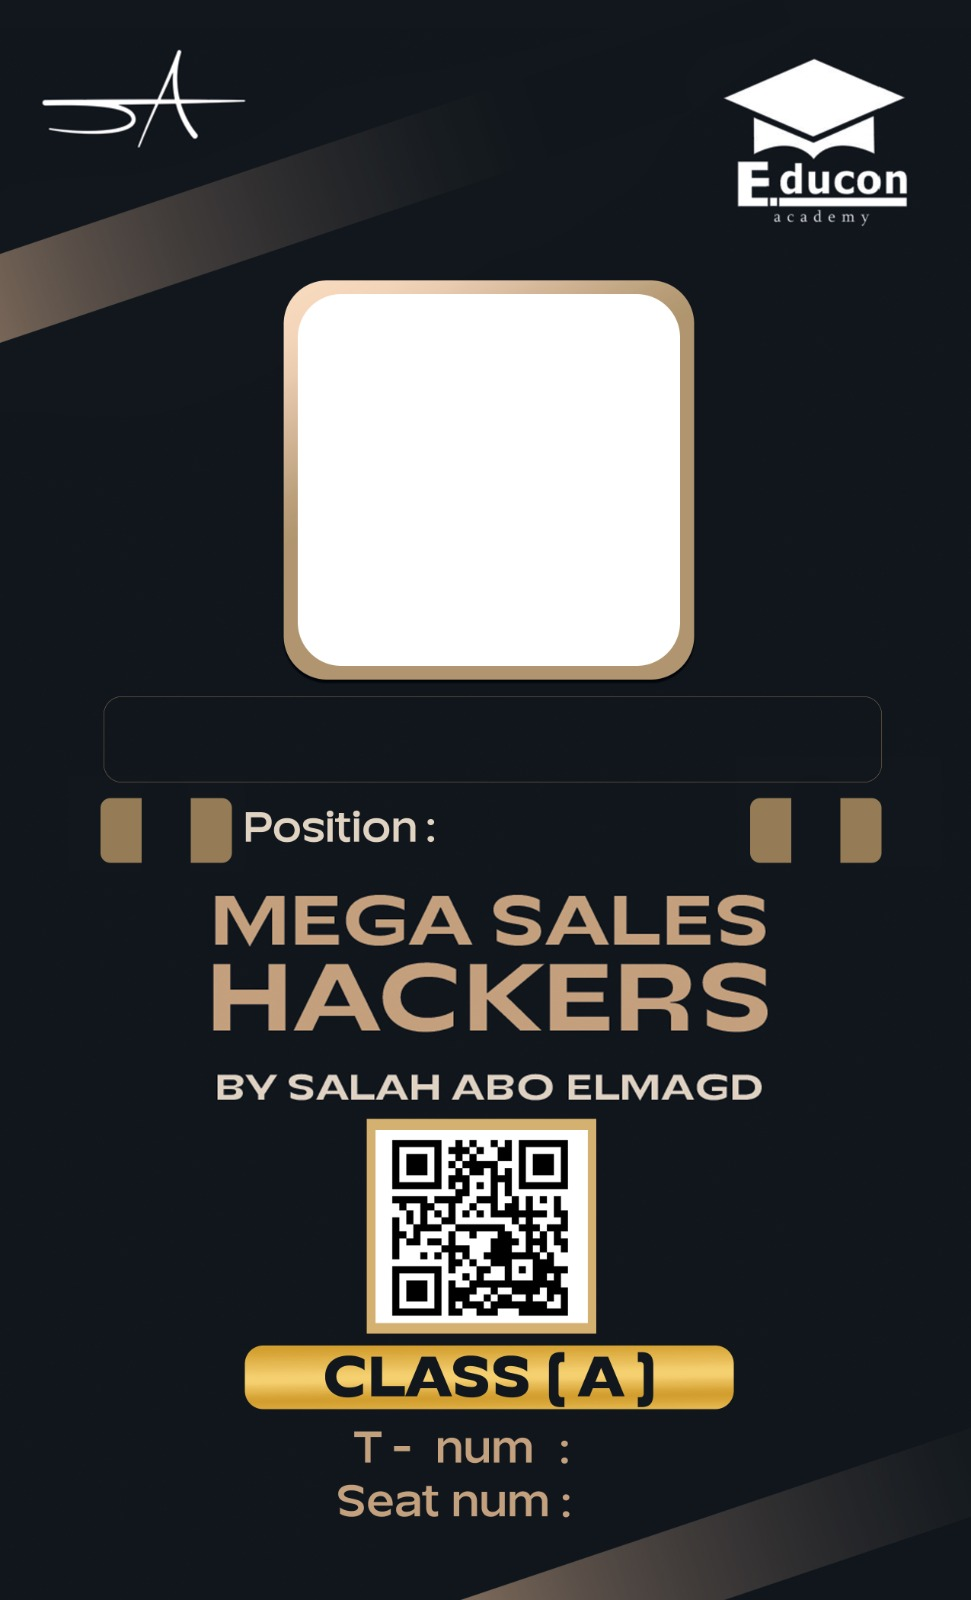
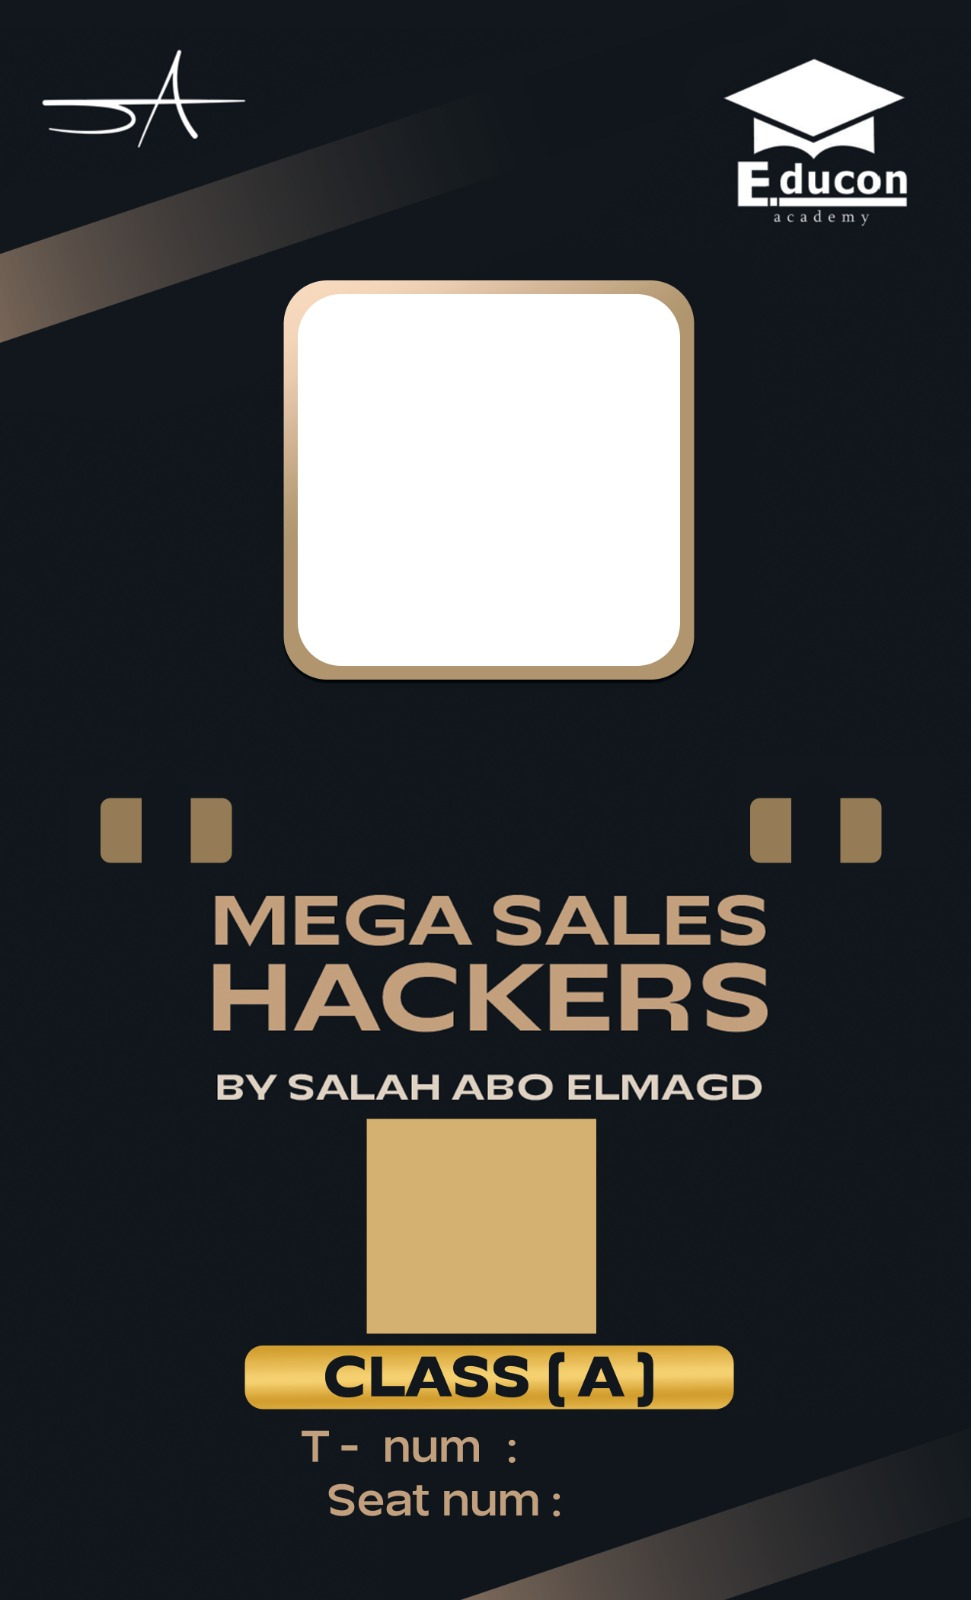
Replace ticket front templates and bust cache

diff --git a/src/pages/IDCard.tsx b/src/pages/IDCard.tsx
@@ -18,6 +18,7 @@ const IDCard: React.FC = () => {
   const previewMode = (searchParams.get('template') || 'ticket') as 'ticket' | 'back' | 'certificate';
   const TICKET_WIDTH_MM = 85;
   const TICKET_HEIGHT_MM = 140;
+  const TEMPLATE_VERSION = '20260416';
   const [attendee, setAttendee] = useState<Attendee | null>(null);
   const [seatInfo, setSeatInfo] = useState<any>(null);
   const [loading, setLoading] = useState(true);
@@ -181,9 +182,9 @@ const IDCard: React.FC = () => {
   };
 
   const frontTemplateByClass: Record<string, string> = {
-    A: '/templates/ticket-front-a.jpg',
-    B: '/templates/ticket-front-b.jpg',
-    C: '/templates/ticket-front-c.jpg'
+    A: `/templates/ticket-front-a.jpg?v=${TEMPLATE_VERSION}`,
+    B: `/templates/ticket-front-b.jpg?v=${TEMPLATE_VERSION}`,
+    C: `/templates/ticket-front-c.jpg?v=${TEMPLATE_VERSION}`
   };
 
   const backTemplateByGovernorate: Record<string, string> = {
